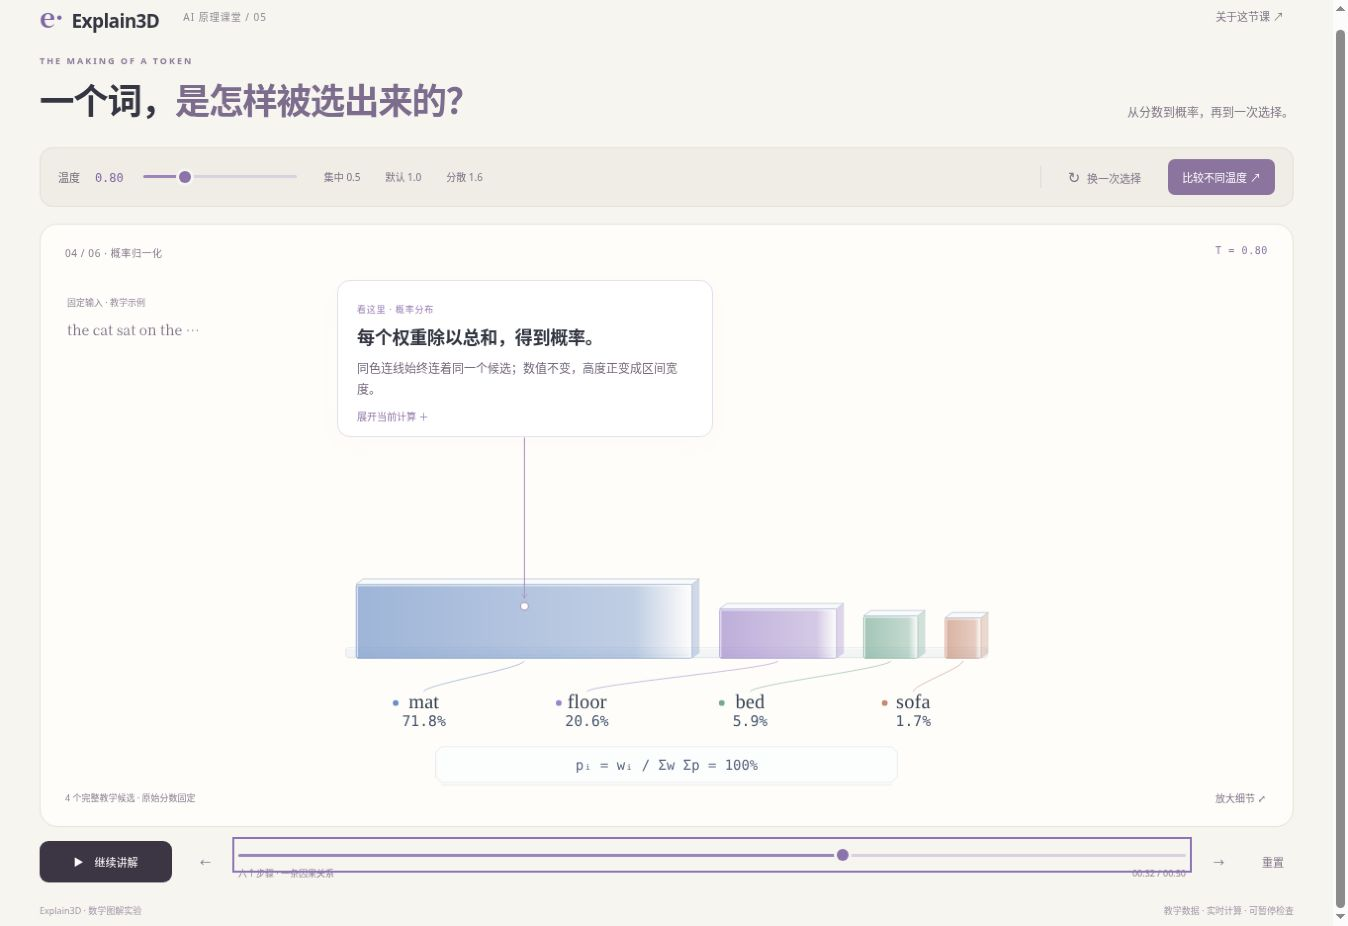
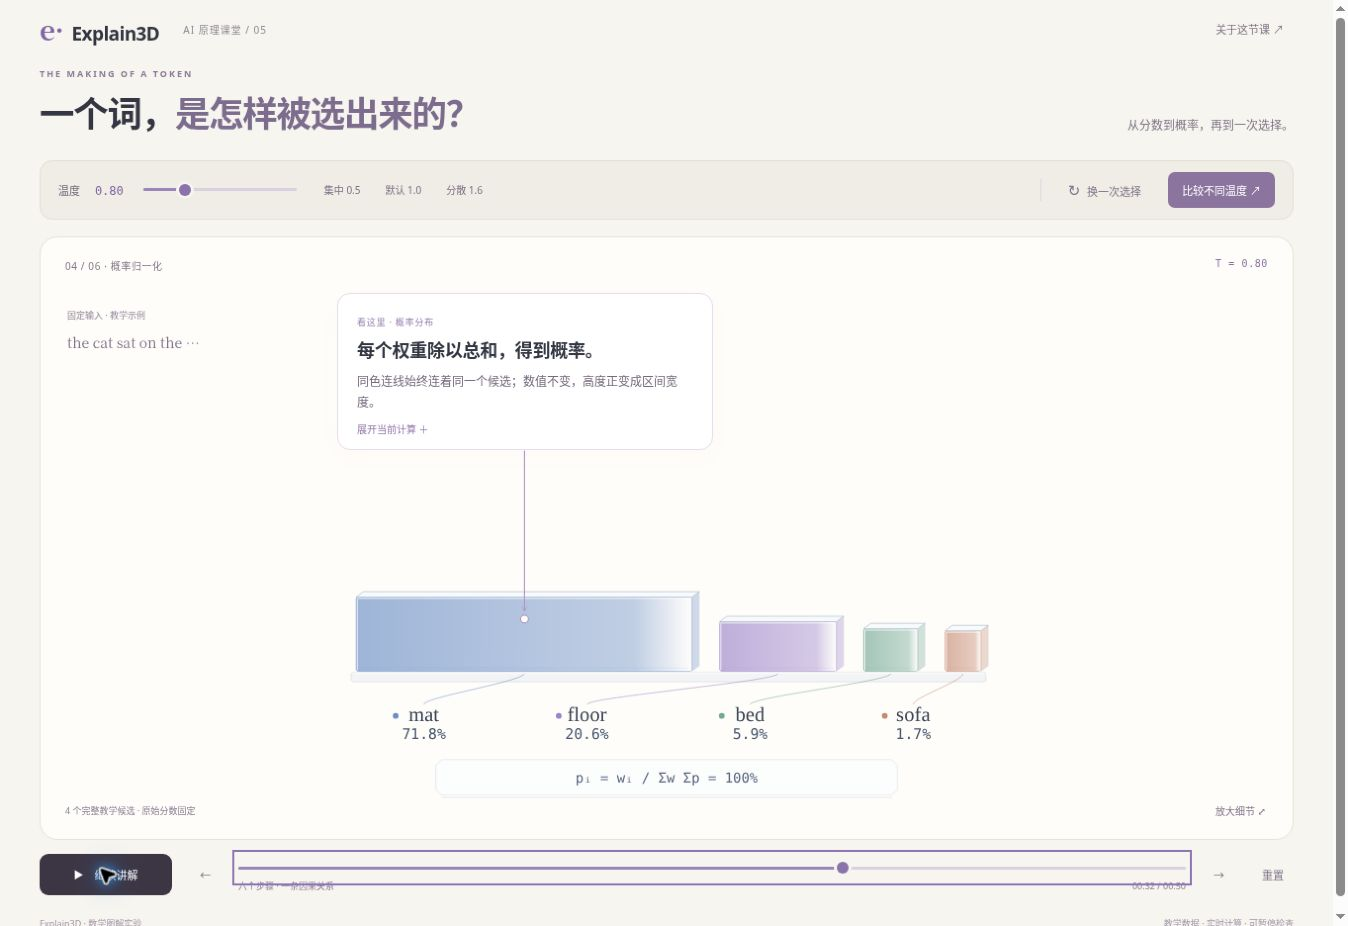
Record verified token-choice production release and browser receipt

diff --git a/docs/ai-learning/STATUS.md b/docs/ai-learning/STATUS.md
@@ -2,7 +2,7 @@
 
 Updated: 2026-10-28 (Asia/Shanghai).
 
-Current total: **4 / 10 published**. **Visual acceptance reopened for all four on 2026-10-28 after user feedback.** Token-choice follow-up has passed developer visual/teaching review and awaits the checked release; the other three remain open. Next rework: **Attention**. New topics, including Transformer, are on hold until the four-scene rework queue passes the updated review gates.
+Current total: **4 / 10 published**. **Visual acceptance reopened for all four on 2026-10-28 after user feedback.** Token-choice follow-up has passed developer visual/teaching review and its checked release is verified in production; the other three remain open. Next rework: **Attention**. New topics, including Transformer, are on hold until the four-scene rework queue passes the updated review gates.
 
 See [Anatomy comparison and concrete findings](reviews/2026-10-28-anatomy-quality.md). Rework order: token-choice → attention → tokenization → embedding. Keep existing routes and mathematical/release evidence. Publication status does not mean the renewed visual gate has passed. The initial comparison changed no website implementation or distributed Skill. A subsequent token-choice repair exists only on the draft branch described below.
 
@@ -53,3 +53,10 @@ Draft branch `fix/token-choice-morph-craft-20261028` repairs moving-label owners
 ## Reviewed token-choice follow-up — 2026-10-28
 
 Browser returned; actual intermediate/reverse desktop frames,390px, native4× contact detail, natural completion/replay, keyboard, manual reduced-motion and controlled hidden-event paths reviewed. Fixed newly observed carrier/front intersection and narrow tick clipping as well as the original label defect. Exact operation rail and staged scales improve causal inspection. Full check passed. Review decision closes listed token-choice defects, without asserting measured learning gains or awards; the other three scenes and Skill distribution alignment remain open. See [full follow-up record](reviews/2026-10-28-token-choice-rework.md). Deployment receipt follows only after matching production SHA/READY and route verification.
+
+
+## Production follow-up receipt — 2026-10-28
+
+PR #6 reviewed head `e6b74581f6a126e1d0fca9e3b72fa615407c35c2`: branch CI40676595210 success; READY preview `dpl_GqK2VrNBQNNF4WFbzUy1pKd3hJvm`. Authenticated preview HTML/app/model/stage/geometry/style responses returned200 and matched the reviewed source exactly. Preview HTTP evidence is distinct from same-source local browser actions.
+
+Merged source `26defa3024d64af69f8a4da8f66e8d23287cb523` reached production READY as `dpl_2BqeL1ySywcQwDayqUr8CqyPzoeW`; main CI40676875334 succeeded. Actual public route https://explain.funagent.app/learn/token-choice/ loaded without sign-in. Production browser inspected default32s label ownership and completed the prediction check: correctfloor feedback and return-to-diagramT=2,u=.6219,floor27.6%. The stable result withdraws the ruler, avoiding result-card/tick occlusion. Course remains4/10; next quality rework isAttention, with new topics held until the other three are reviewed. Original publication receipts remain intact.

diff --git a/docs/ai-learning/reviews/2026-10-28-token-choice-rework.md b/docs/ai-learning/reviews/2026-10-28-token-choice-rework.md
@@ -70,3 +70,10 @@ Environment: current Chrome cloud browser, desktop screenshot1363×936, same-sou
 This is developer teaching/visual review, not measured learning-effect research or user aesthetic approval. The bounded question remains how fixed scores and one fixed uniform sample produce one chosen candidate. The first view names the input/scores and makes score≠probability explicit; the operation rail links exact values to colors; the morph changes representation without changing probability; a fixed-u temperature experiment changes the selected result and explains why. Those observations close the listed token-choice ownership, narrow-readability, continuity and contact defects for this revision. The same benchmark is still open for Attention, tokenization and embedding; no new topic is authorized to bypass that queue.
 
 Limits: no real learner sessions, physical phones, screen readers, other browser engines, OS preference switching or hardware performance measurements. No award/equivalent-fidelity claim. Public/working Skill alignment remains a distinct pending task; this release does not claim a new installed or cross-host-verified Skill.
+
+
+## Production follow-up receipt — 2026-10-28
+
+PR #6 reviewed head `e6b74581f6a126e1d0fca9e3b72fa615407c35c2`: branch CI40676595210 success; READY preview `dpl_GqK2VrNBQNNF4WFbzUy1pKd3hJvm`. Authenticated preview HTML/app/model/stage/geometry/style responses returned200 and matched the reviewed source exactly. Preview HTTP evidence is distinct from same-source local browser actions.
+
+Merged source `26defa3024d64af69f8a4da8f66e8d23287cb523` reached production READY as `dpl_2BqeL1ySywcQwDayqUr8CqyPzoeW`; main CI40676875334 succeeded. Actual public route https://explain.funagent.app/learn/token-choice/ loaded without sign-in. Production browser inspected default32s label ownership and completed the prediction check: correctfloor feedback and return-to-diagramT=2,u=.6219,floor27.6%. The stable result withdraws the ruler, avoiding result-card/tick occlusion. Course remains4/10; next quality rework isAttention, with new topics held until the other three are reviewed. Original publication receipts remain intact.

diff --git a/apps/site/learn/token-choice/LESSON.md b/apps/site/learn/token-choice/LESSON.md
@@ -76,3 +76,10 @@ The 32s probability-label defect has a source-level repair using shared geometry
 ## Follow-up visual and teaching review — 2026-10-28
 
 Browser access was restored. Implemented exact operation rail, staged scale visibility, larger narrow type, continuous annotations and carrier contact repair. Actual desktop/390px and native4× review, forward/reverse intermediate frames, natural completion/replay/Escape, controlled hidden event and manual reduced-motion setting were exercised. Prediction check retained fixedu and returnedT=2/floor27.6%. See `docs/ai-learning/reviews/2026-10-28-token-choice-rework.md` for observed results/screenshots and untested limits. The initial draft's no-browser statement is historical. This is developer review, not measured learning gains or external aesthetic endorsement.
+
+
+## Production follow-up receipt — 2026-10-28
+
+PR #6 reviewed head `e6b74581f6a126e1d0fca9e3b72fa615407c35c2`: branch CI40676595210 success; READY preview `dpl_GqK2VrNBQNNF4WFbzUy1pKd3hJvm`. Authenticated preview HTML/app/model/stage/geometry/style responses returned200 and matched the reviewed source exactly. Preview HTTP evidence is distinct from same-source local browser actions.
+
+Merged source `26defa3024d64af69f8a4da8f66e8d23287cb523` reached production READY as `dpl_2BqeL1ySywcQwDayqUr8CqyPzoeW`; main CI40676875334 succeeded. Actual public route https://explain.funagent.app/learn/token-choice/ loaded without sign-in. Production browser inspected default32s label ownership and completed the prediction check: correctfloor feedback and return-to-diagramT=2,u=.6219,floor27.6%. The stable result withdraws the ruler, avoiding result-card/tick occlusion. Course remains4/10; next quality rework isAttention, with new topics held until the other three are reviewed. Original publication receipts remain intact.
